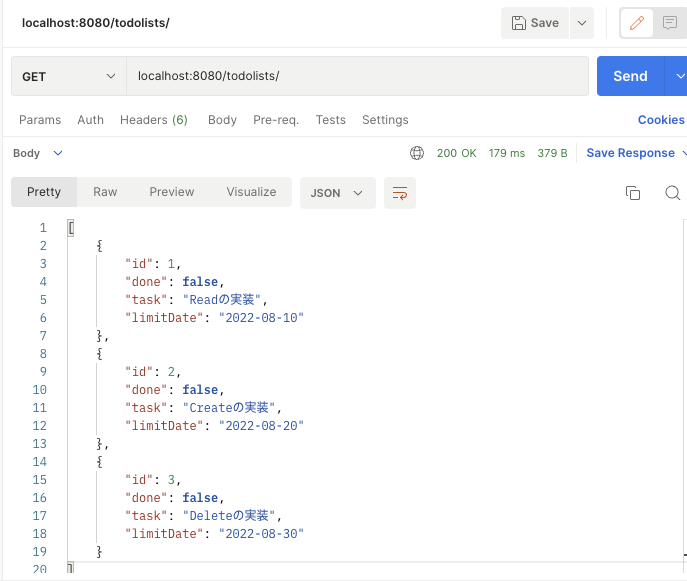
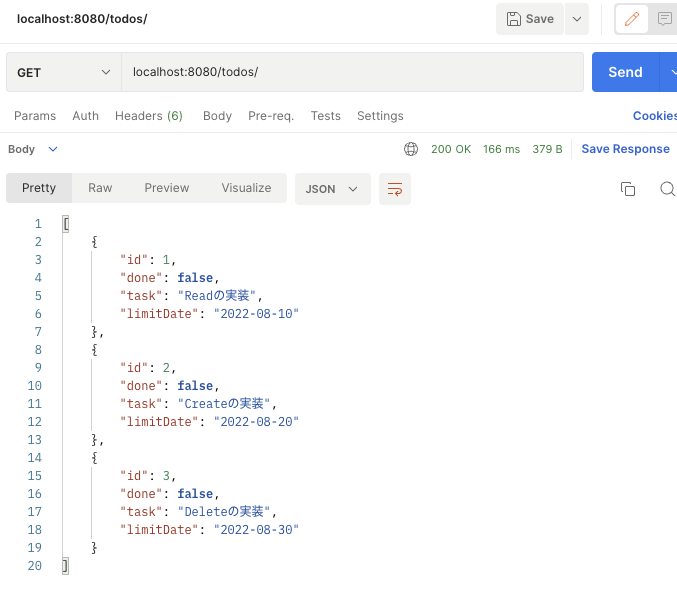
URLを/todosに変更しました

diff --git a/src/test/java/com/raisetech/todo/integrationtest/UserRestApiIntegrationTest.java b/src/test/java/com/raisetech/todo/integrationtest/UserRestApiIntegrationTest.java
@@ -29,7 +29,7 @@ public class UserRestApiIntegrationTest {
     @DataSet(value = "datasets/to_do_list.yml")
     @Transactional
     void タスクを全件取得できること() throws Exception{
-        String response = mockMvc.perform(MockMvcRequestBuilders.get("/todolists"))
+        String response = mockMvc.perform(MockMvcRequestBuilders.get("/todos"))
                 .andExpect(MockMvcResultMatchers.status().isOk())
                 .andReturn().getResponse().getContentAsString(StandardCharsets.UTF_8);
 
@@ -59,7 +59,7 @@ public class UserRestApiIntegrationTest {
     @DataSet(value = "datasets/to_do_list.yml")
     @Transactional
     void 特定のタスクを１件取得できること() throws Exception{
-        String response = mockMvc.perform(MockMvcRequestBuilders.get("/todolists/1"))
+        String response = mockMvc.perform(MockMvcRequestBuilders.get("/todos/1"))
                 .andExpect(MockMvcResultMatchers.status().isOk())
                 .andReturn().getResponse().getContentAsString(StandardCharsets.UTF_8);
 

diff --git a/src/main/java/com/raisetech/todo/controller/ToDoController.java b/src/main/java/com/raisetech/todo/controller/ToDoController.java
@@ -21,12 +21,12 @@ import java.util.Map;
 public class ToDoController {
     private final ToDoService toDoService;
 
-    @GetMapping("/todolists")
+    @GetMapping("/todos")
     public List<ToDoEntity> getAllTask(){
         return toDoService.findAllTask();
     }
 
-    @GetMapping("/todolists/{id}")
+    @GetMapping("/todos/{id}")
     public ToDoEntity getTaskById(@PathVariable int id){
         return toDoService.findById(id);
     }

diff --git a/README.md b/README.md
@@ -41,16 +41,16 @@ ToDoの登録ができるCRUDアプリになる予定です。
 ## URL設計
 | 画面名／機能名     | method | URL          | 
 |-------------| ------------ |-----------------| 
-| タスク一覧取得     | GET | /todolists      |
-| 特定のタスクを１件取得 | GET | /todolists/{id} |
+| タスク一覧取得     | GET | /todos      |
+| 特定のタスクを１件取得 | GET | /todos/{id} |
 
-### 1. GET /todolists  
+### 1. GET /todos  
 ![タスク一覧取得した時のJSON結果](images/01GetAllTask.png)
 
-### 2. GET /todolists/{id}  
+### 2. GET /todos/{id}  
 ![特定のタスクを１件取得した時のJSON結果](images/02GetFindById.png)
 
-### 3. GET /todolists/{id}で存在しないタスクを指定した時の例外処理
+### 3. GET /todos/{id}で存在しないタスクを指定した時の例外処理
 ![存在しないタスクを指定した時のJSON結果](images/03GetFindByIdException.png)
 
 ---
